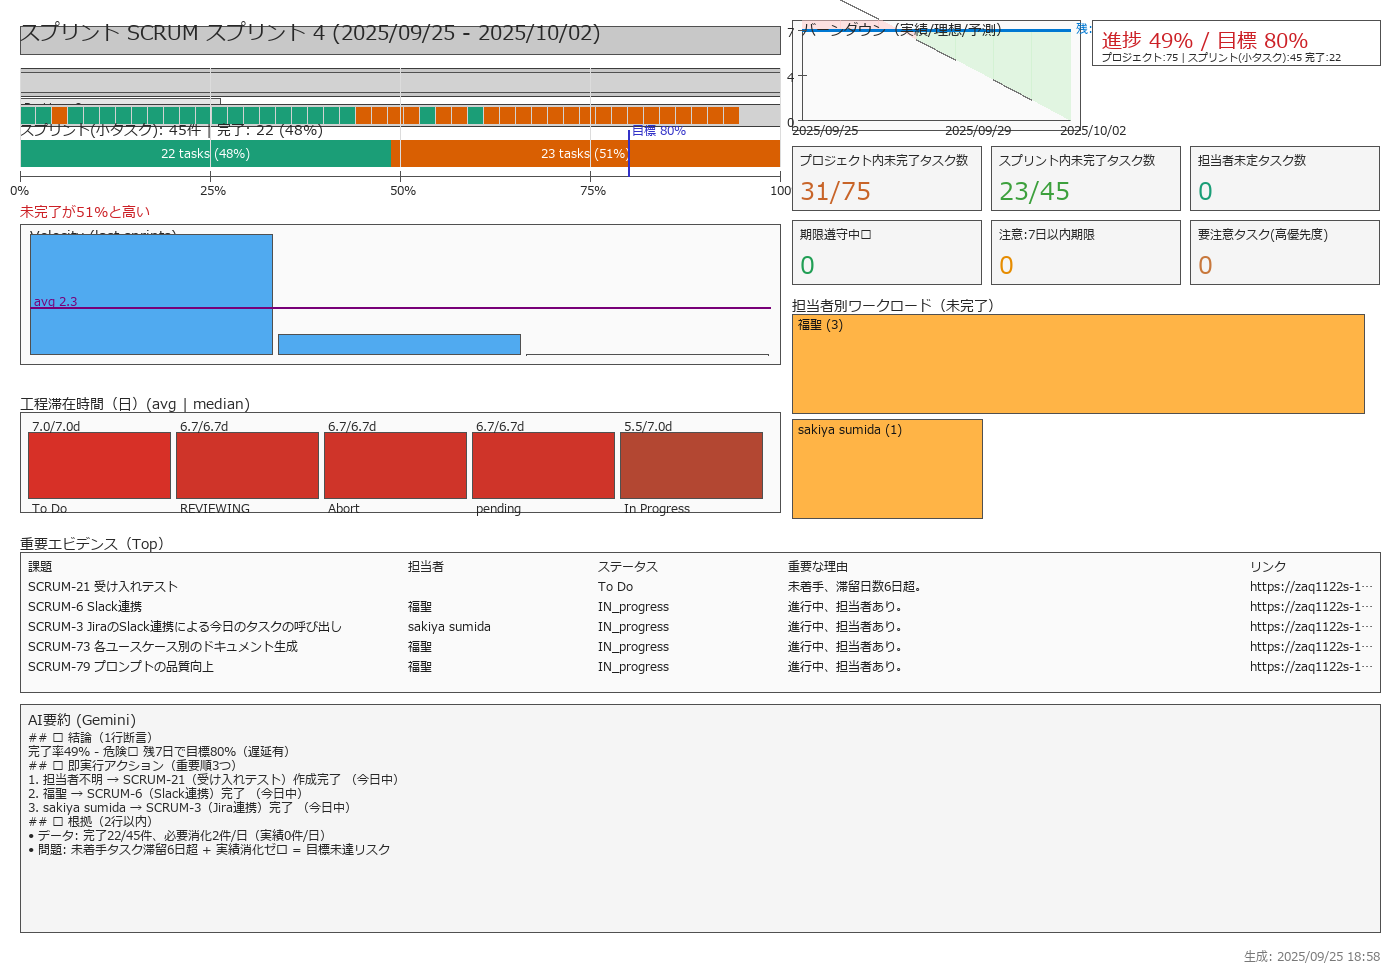
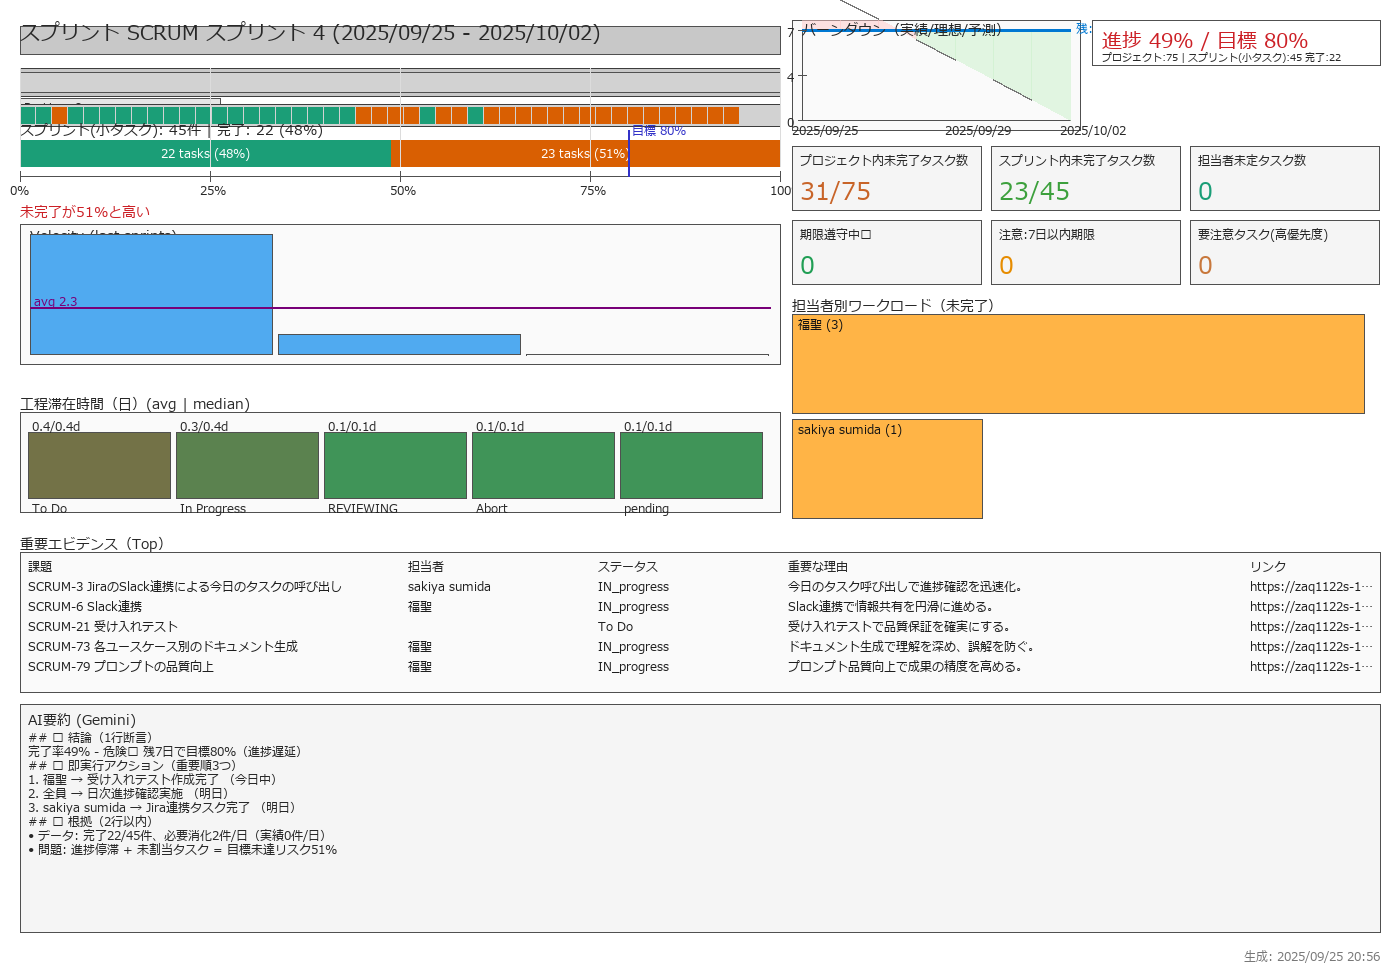
feat: Improve status transition processing and update sprint overview report

diff --git a/prototype/local_cli/queries/jira_q_time_in_status.py b/prototype/local_cli/queries/jira_q_time_in_status.py
@@ -89,6 +89,10 @@ def main() -> int:
         if code_i != 200 or not data_i:
             continue
         histories = ((data_i.get("changelog") or {}).get("histories") or [])
+        
+        # 課題作成日時を取得
+        created_date = parse_iso((data_i.get("fields") or {}).get("created"))
+        
         # Build timeline of status with timestamps
         events: List[Tuple[datetime, str]] = []
         # initial: unknown until first status we see; we can derive current status at the end
@@ -103,11 +107,17 @@ def main() -> int:
                         events.append((created, str(name)))
         # Sort by time
         events.sort(key=lambda x: x[0])
-        # If we have no events, take current status as single bucket for the whole window (完了ステータスは除外)
+        
+        # If we have no events, take current status as single bucket for the window (完了ステータスは除外)
         if not events:
             cur = ((iss.get("fields") or {}).get("status") or {}).get("name") or "(unknown)"
             if not is_done_status(cur):
-                dur = max(0.0, (until - since).total_seconds())
+                # 課題作成日時とスプリント開始日時の遅い方から現在時刻まで計算
+                effective_start = max(since, created_date) if created_date else since
+                now = datetime.now(timezone.utc)
+                # 現在時刻がスプリント終了前の場合は現在時刻、それ以降の場合はスプリント終了時刻を使用
+                effective_end = min(now, until)
+                dur = max(0.0, (effective_end - effective_start).total_seconds())
                 total_by_status[cur] = total_by_status.get(cur, 0.0) + dur
                 per_issue.append({"key": ikey, "byStatus": {cur: dur}})
             else:
@@ -143,9 +153,11 @@ def main() -> int:
             prev_time = t
             prev_status = st
 
-        # tail from last change to until (完了ステータスは除外)
+        # tail from last change to current time or sprint end (完了ステータスは除外)
         if prev_time and prev_status and not is_done_status(prev_status):
-            tail = (until - max(prev_time, since)).total_seconds()
+            now = datetime.now(timezone.utc)
+            effective_end = min(now, until)
+            tail = (effective_end - max(prev_time, since)).total_seconds()
             if tail > 0:
                 by_status[prev_status] = by_status.get(prev_status, 0.0) + tail
 

diff --git a/prototype/local_cli/queries/jira_q_burndown.py b/prototype/local_cli/queries/jira_q_burndown.py
@@ -104,7 +104,8 @@ def main() -> int:
         if code_i == 200 and data_i:
             try:
                 hist = ((data_i.get("changelog") or {}).get("histories") or [])
-                for h in hist:
+                # Process histories in reverse order to find the LATEST transition to Done status
+                for h in reversed(hist):
                     items = h.get("items") or []
                     for it in items:
                         if (it.get("field") == "status" and
@@ -113,7 +114,9 @@ def main() -> int:
                             if to_name:
                                 # If transitioned into a Done category status, mark date
                                 # Unfortunately statusCategory isn't in changelog items; accept any status that is Done now
-                                if to_name.lower() in {"done", "resolved", "fixed", "完成", "完了"}:
+                                # Exclude abort/cancel statuses as they are not true completion
+                                if (to_name.lower() in {"done", "resolved", "fixed", "完成", "完了", "compleat", "complete", "closed"} and
+                                    to_name.lower() not in {"abort", "aborted", "cancelled", "canceled"}):
                                     changed = parse_iso(h.get("created"))
                                     if changed:
                                         done_dt = changed

diff --git a/prototype/local_cli/sprint_overview_report.md b/prototype/local_cli/sprint_overview_report.md
@@ -1,31 +1,31 @@
-## 要約 | 2025-09-25 18:58
+## 要約 | 2025-09-25 20:56
 What: SCRUM スプリント 4 (2025-09-25T01:54:22.028Z—2025-10-02T01:54:00.000Z) — 45 tasks, Done 22 (48%). (data: sprint_total=45, sprint_done=22)
-So what: 目標80%未達、レビュー滞留 (data: time_in_status[Review].avg=6.7d)
+So what: 目標80%未達、レビュー滞留 (data: time_in_status[Review].avg=0.1d)
 Next: 高優先度未完了0件の即時割当、レビュー担当の増員検討
 
 ## AI要約 (Gemini)
 
 ## 🎯 結論（1行断言）
-完了率49% - 危険🚨 残7日で目標80%（遅延有）
+完了率49% - 危険🚨 残7日で目標80%（進捗遅延）
 
 ## 🚨 即実行アクション（重要順3つ）
-1. 担当者不明 → SCRUM-21（受け入れテスト）作成完了 （今日中）
-2. 福聖 → SCRUM-6（Slack連携）完了 （今日中）
-3. sakiya sumida → SCRUM-3（Jira連携）完了 （今日中）
+1. 福聖 → 受け入れテスト作成完了 （今日中）
+2. 全員 → 日次進捗確認実施 （明日）
+3. sakiya sumida → Jira連携タスク完了 （明日）
 
 ## 📊 根拠（2行以内）
 • データ: 完了22/45件、必要消化2件/日（実績0件/日）
-• 問題: 未着手タスク滞留6日超 + 実績消化ゼロ = 目標未達リスク
+• 問題: 進捗停滞 + 未割当タスク = 目標未達リスク51%
 
 ## リスク
 - 特筆すべきリスクなし
 
 ## エビデンス (Top)
-- SCRUM-21 受け入れテスト | To Do | 7.0d | assignee:  | why: 未着手、滞留日数6日超。 | https://zaq1122s-1758530383487.atlassian.net/browse/SCRUM-21
-- SCRUM-6 Slack連携 | IN_progress | 7.0d | assignee: 福聖 | why: 進行中、担当者あり。 | https://zaq1122s-1758530383487.atlassian.net/browse/SCRUM-6
-- SCRUM-3 JiraのSlack連携による今日のタスクの呼び出し | IN_progress | 7.0d | assignee: sakiya sumida | why: 進行中、担当者あり。 | https://zaq1122s-1758530383487.atlassian.net/browse/SCRUM-3
-- SCRUM-73 各ユースケース別のドキュメント生成 | IN_progress | 7.0d | assignee: 福聖 | why: 進行中、担当者あり。 | https://zaq1122s-1758530383487.atlassian.net/browse/SCRUM-73
-- SCRUM-79 プロンプトの品質向上 | IN_progress | 6.7d | assignee: 福聖 | why: 進行中、担当者あり。 | https://zaq1122s-1758530383487.atlassian.net/browse/SCRUM-79
+- SCRUM-3 JiraのSlack連携による今日のタスクの呼び出し | IN_progress | 0.4d | assignee: sakiya sumida | why: 今日のタスク呼び出しで進捗確認を迅速化。 | https://zaq1122s-1758530383487.atlassian.net/browse/SCRUM-3
+- SCRUM-6 Slack連携 | IN_progress | 0.4d | assignee: 福聖 | why: Slack連携で情報共有を円滑に進める。 | https://zaq1122s-1758530383487.atlassian.net/browse/SCRUM-6
+- SCRUM-21 受け入れテスト | To Do | 0.4d | assignee:  | why: 受け入れテストで品質保証を確実にする。 | https://zaq1122s-1758530383487.atlassian.net/browse/SCRUM-21
+- SCRUM-73 各ユースケース別のドキュメント生成 | IN_progress | 0.4d | assignee: 福聖 | why: ドキュメント生成で理解を深め、誤解を防ぐ。 | https://zaq1122s-1758530383487.atlassian.net/browse/SCRUM-73
+- SCRUM-79 プロンプトの品質向上 | IN_progress | 0.1d | assignee: 福聖 | why: プロンプト品質向上で成果の精度を高める。 | https://zaq1122s-1758530383487.atlassian.net/browse/SCRUM-79
 
 ## 短期アクション
 1) レビュー担当を1名追加 — 期待: Review平均を2日短縮
